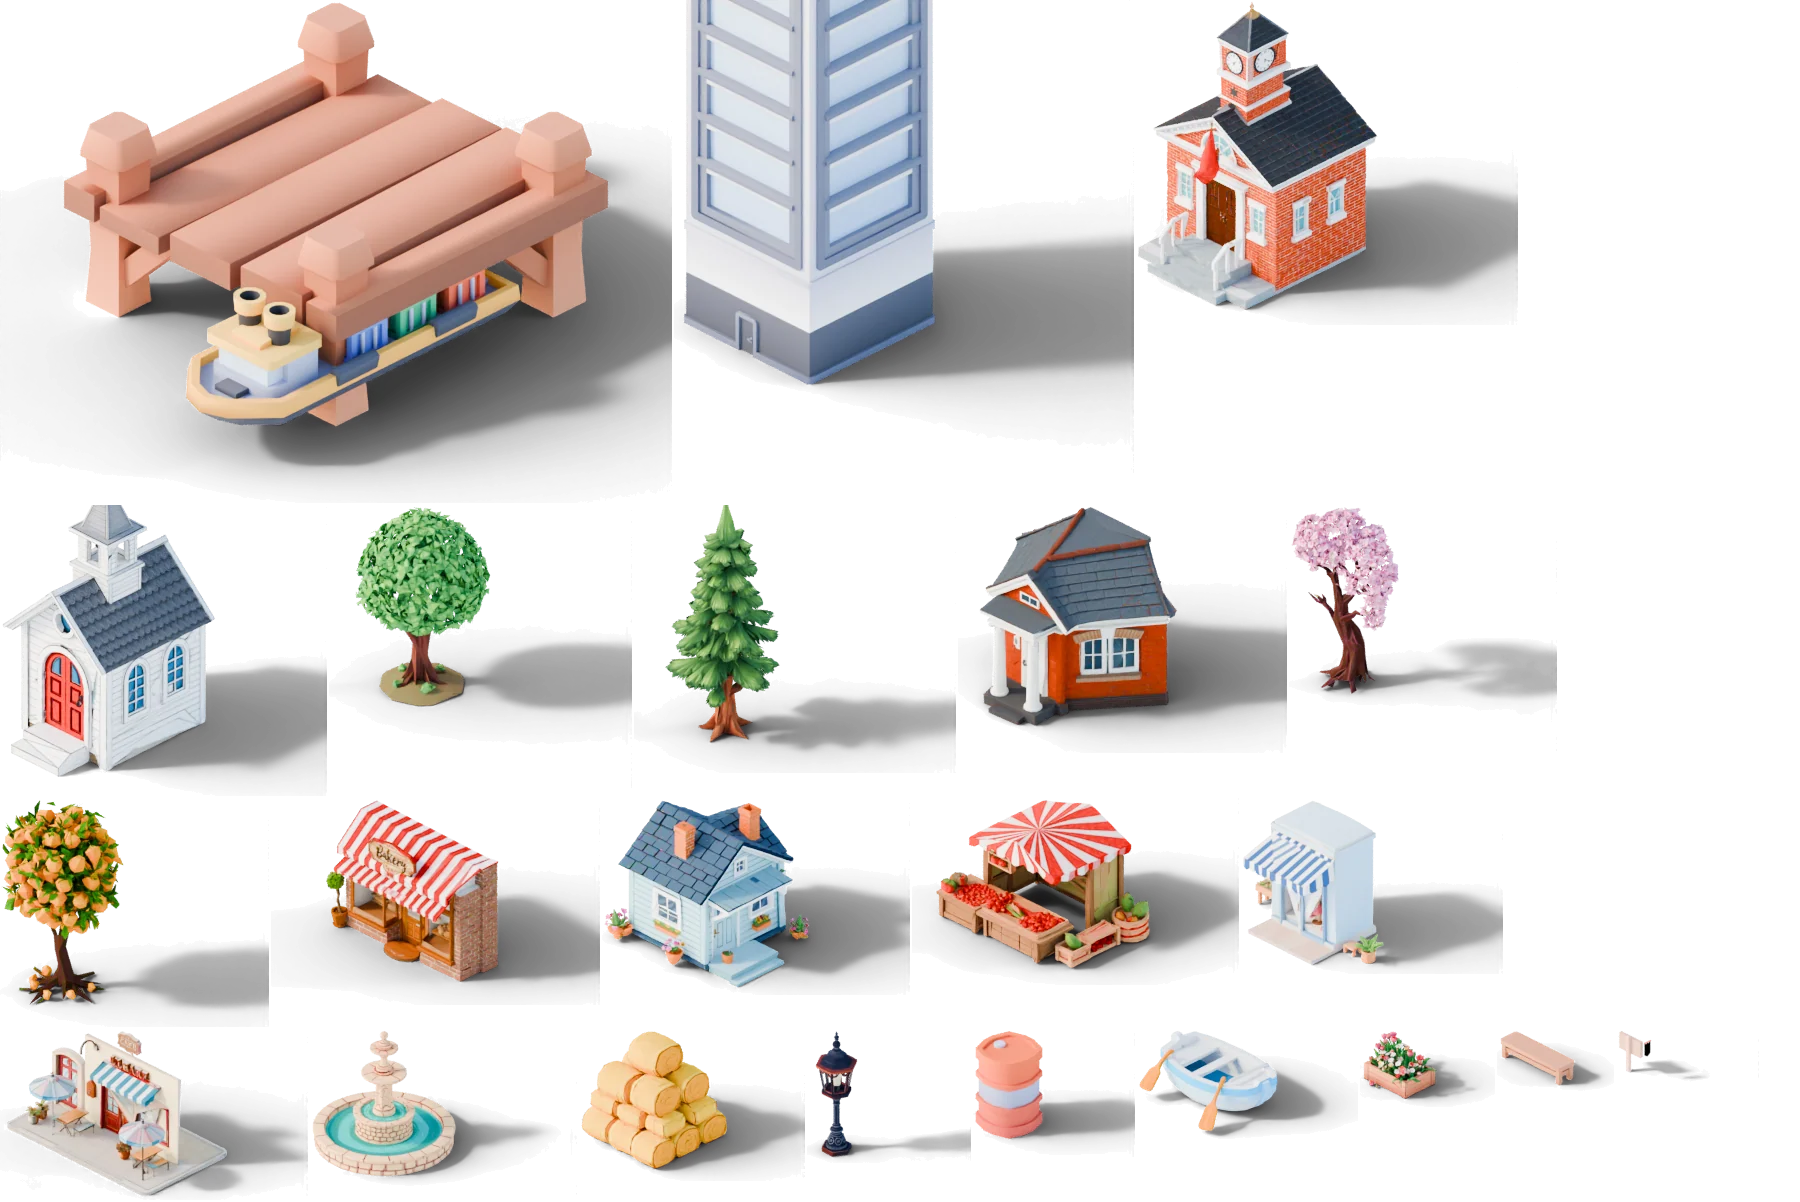
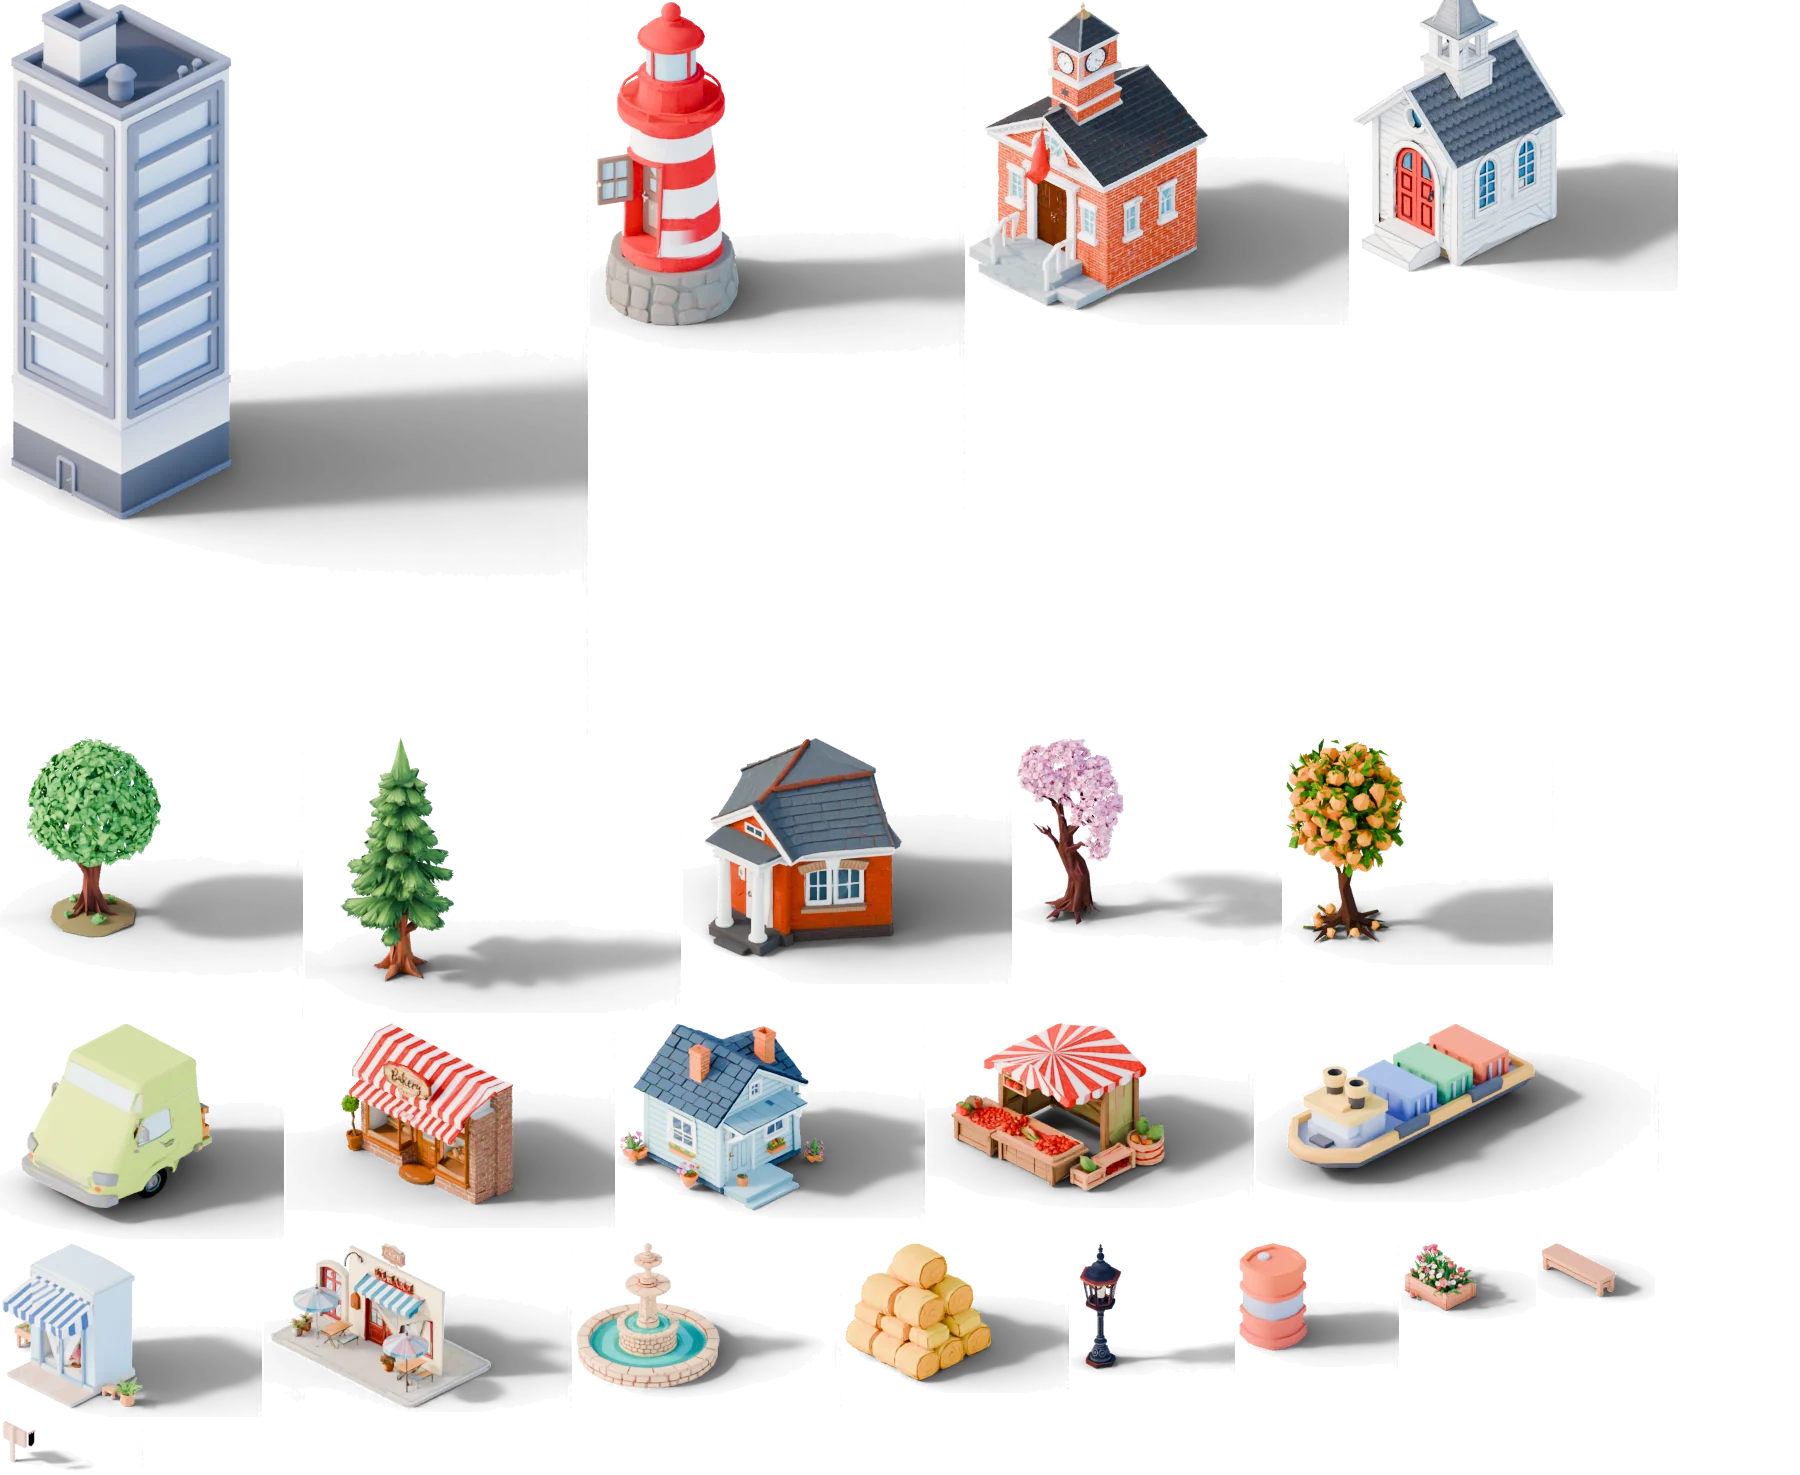
WIP checkpoint (agents still working)
Claude-Session: https://claude.ai/code/session_01MZqF5xsRjVMwhhvg4xQkiz

diff --git a/games/assets/idle/monsters.js b/games/assets/idle/monsters.js
@@ -1,1 +1,1 @@
-window.IK_ATLAS=window.IK_ATLAS||{};window.IK_ATLAS["monsters"]={"m_fly_dragon":[0,0,480,267,240.0,183.0],"m_big_mushroomking":[482,0,322,215,70.0,163.0],"m_blob_greenblob":[806,0,326,184,134.0,128.0],"m_blob_ninja":[1134,0,284,179,92.0,138.0],"m_blob_cactoro":[0,269,296,170,104.0,121.0],"m_blob_yeti":[298,269,291,166,99.0,117.0],"m_blob_dog":[591,269,273,165,81.0,115.0],"m_blob_greenspikyblob":[866,269,291,163,99.0,117.0],"m_blob_cat":[1159,269,269,161,77.0,114.0],"m_blob_pinkblob":[0,441,281,160,89.0,112.0],"m_blob_chicken":[283,441,240,152,48.0,117.0],"m_blob_alien":[525,441,281,151,89.0,112.0],"m_blob_mushnub":[808,441,248,148,56.0,110.0],"m_blob_wizard":[1058,441,292,146,100.0,102.0],"__size":[1600,603]};
+window.IK_ATLAS=window.IK_ATLAS||{};window.IK_ATLAS["monsters"]={"m_big_demon":[0,0,393,307,141.0,182.0],"m_fly_pigeon":[395,0,480,306,240.0,219.0],"m_fly_demon":[877,0,480,281,240.0,202.0],"m_big_ninja":[1359,0,361,279,109.0,185.0],"m_big_orc":[0,309,323,278,71.0,153.0],"m_big_orc_skull":[325,309,321,277,69.0,152.0],"m_big_cactoro":[648,309,341,273,89.0,174.0],"m_fly_dragon":[991,309,480,267,240.0,183.0],"m_big_frog":[0,589,344,265,92.0,166.0],"m_fly_goleling":[346,589,480,259,240.0,177.0],"m_big_monkroose":[828,589,323,254,71.0,155.0],"m_fly_squidle":[1153,589,394,252,154.0,174.0],"m_big_alien":[0,856,352,250,100.0,151.0],"m_fly_dragon_evolved":[354,856,363,226,123.0,162.0],"m_big_bluedemon":[719,856,358,223,106.0,166.0],"m_fly_armabee":[1079,856,369,222,129.0,157.0],"m_fly_ghost_skull":[0,1108,354,221,114.0,168.0],"m_big_mushroomking":[356,1108,322,215,70.0,163.0],"m_fly_ghost":[680,1108,345,214,105.0,165.0],"m_big_yeti":[1027,1108,318,212,66.0,160.0],"m_fly_alpaking":[1347,1108,333,209,93.0,147.0],"m_big_birb":[0,1331,323,208,71.0,172.0],"m_fly_hywirl":[325,1331,344,208,104.0,156.0],"m_fly_glub":[671,1331,358,201,118.0,145.0],"m_big_dino":[1031,1331,345,199,93.0,147.0],"m_blob_birb":[1378,1331,284,192,92.0,147.0],"m_big_fish":[0,1541,324,191,72.0,151.0],"m_fly_tribal":[326,1541,301,187,74.0,147.0],"m_big_tribal":[629,1541,325,184,73.0,149.0],"m_blob_greenblob":[956,1541,326,184,134.0,128.0],"m_blob_ninja":[1284,1541,284,179,92.0,138.0],"m_blob_cactoro":[0,1734,296,170,104.0,121.0],"m_blob_pigeon":[298,1734,278,169,86.0,121.0],"m_blob_yeti":[578,1734,291,166,99.0,117.0],"m_blob_dog":[871,1734,273,165,81.0,115.0],"m_blob_greenspikyblob":[1146,1734,291,163,99.0,117.0],"m_blob_cat":[1439,1734,269,161,77.0,114.0],"m_blob_pinkblob":[0,1906,281,160,89.0,112.0],"m_blob_fish":[283,1906,267,155,75.0,116.0],"m_blob_chicken":[552,1906,240,152,48.0,117.0],"m_blob_orc":[794,1906,273,152,81.0,113.0],"m_blob_alien":[1069,1906,281,151,89.0,112.0],"m_blob_mushnub":[1352,1906,248,148,56.0,110.0],"m_blob_wizard":[0,2068,292,146,100.0,102.0],"__size":[1800,2216]};

diff --git a/games/idle-empire.html b/games/idle-empire.html
@@ -33,7 +33,7 @@ var G = [
   { name: 'Library', cost: 2e7, inc: 7800, spr: 'study_hall', desc: 'Every book pays a fee.', verb: 'Build', lvl: 6 },
   { name: 'Town Hall', cost: 3.3e8, inc: 44000, spr: 'clocktower', desc: 'Taxes, ribbons, clocks.', verb: 'Build', lvl: 8 },
   { name: 'Skyscraper', cost: 5.1e9, inc: 260000, spr: 'skyscraper', desc: 'Offices above the clouds.', verb: 'Build', lvl: 10 },
-  { name: 'Grand Harbour', cost: 7.5e10, inc: 1.6e6, spr: 'harbour', desc: 'Ships from every sea.', verb: 'Build', lvl: 12 }
+  { name: 'Grand Harbour', cost: 7.5e10, inc: 1.6e6, spr: 'lighthouse', desc: 'Ships from every sea.', verb: 'Build', lvl: 12 }
 ];
 G.forEach(function (g) { g.ico = function (px) { return A.icon(g.spr, px, 6); }; });
 var LOT = [{ i: 3, j: 2 }, { i: 3, j: 1 }, { i: 2, j: 2 }, { i: 2, j: 1 }, { i: 1, j: 2 }, { i: 2, j: 0 }, { i: 0, j: 2 }, { i: 1, j: 0 }, { i: 0, j: 1 }, { i: 0, j: 0 }];   // where each tier stands
@@ -153,6 +153,7 @@ function makeScene(E) {
           var k2 = 1;
           if (bd && bd.t < 0.6) { var u = bd.t / 0.6; k2 = u < 0.6 ? 0.5 + 0.7 * (u / 0.6) : 1.2 - 0.2 * ((u - 0.6) / 0.4); bd.t += dt; }
           else if (bd && bd.b > 0) { k2 = 1 + 0.06 * Math.sin(bd.b * 18) * (bd.b / 0.25); bd.b -= dt; }
+          if (tier === 9) A.draw(cx, 'ship', p3.x - 46 * sc, p3.y - 26 * sc + Math.sin(t * 1.6) * 2, ss * 0.9);
           cx.save(); cx.translate(p3.x, p3.y); cx.scale(k2, Math.max(0.9, Math.min(1.05, 2 - k2))); A.draw(cx, g.spr, 0, 0, ss); cx.restore();
           iso.chip(cx, '×' + owned, p3.x, p3.y + 15 * sc, false);
           if (owned >= 25) { var st2 = owned >= 100 ? 3 : owned >= 50 ? 2 : 1, star = '★★★'.slice(0, st2); cx.font = '800 13px "DM Sans", sans-serif'; cx.textAlign = 'center'; cx.strokeStyle = 'rgba(40,20,0,.8)'; cx.lineWidth = 3; cx.strokeText(star, p3.x, p3.y + 31 * sc); cx.fillStyle = '#ffd45a'; cx.fillText(star, p3.x, p3.y + 31 * sc); }
@@ -162,7 +163,7 @@ function makeScene(E) {
           if (nextUp) {
             cx.strokeStyle = 'rgba(255,224,130,' + (0.6 + 0.3 * Math.sin(t * 4)) + ')'; cx.lineWidth = 2.5; cx.setLineDash([7, 5]); iso.diamond(cx, p3.x, p3.y, 0.9); cx.stroke(); cx.setLineDash([]);
             iso.chip(cx, S.coins >= E.cost(tier, 1) ? 'BUILD!' : 'NEXT', p3.x, p3.y - 6 * sc + Math.sin(t * 4) * 2, S.coins >= E.cost(tier, 1));
-          } else if (tier > hi + 1 || !E.unlocked(tier)) { cx.fillStyle = 'rgba(255,255,255,.6)'; cx.font = '800 14px "DM Sans", sans-serif'; cx.textAlign = 'center'; cx.fillText(E.unlocked(tier) ? '?' : 'Lv ' + g.lvl, p3.x, p3.y + 4); }
+          }
         }
       } else if (it.kind === 'critter') {
         var c = critter; A.draw(cx, 'truck', c.x, c.y, ss * 1.05);

diff --git a/games/assets/idle/harvest.js b/games/assets/idle/harvest.js
@@ -1,1 +1,1 @@
-window.IK_ATLAS=window.IK_ATLAS||{};window.IK_ATLAS["harvest"]={"farm_windmill":[0,0,368,324,99.0,268.0],"tree":[370,0,303,283,93.0,181.0],"pine":[675,0,376,277,99.0,235.0],"barn":[1053,0,347,276,120.0,195.0],"treepink":[0,326,268,248,58.0,173.0],"truck":[270,326,284,218,116.0,157.0],"home":[556,326,326,196,99.0,131.0],"silos":[884,326,325,177,73.0,131.0],"hay_bales":[1211,326,226,152,75.0,106.0],"wheat_3":[0,576,255,136,104.0,83.0],"wheat_2":[257,576,255,134,104.0,80.0],"strawberry_3":[514,576,260,132,109.0,78.0],"tractor":[776,576,246,132,95.0,89.0],"strawberry_2":[1024,576,255,129,104.0,76.0],"crate":[1281,576,162,128,36.0,93.0],"strawberry_1":[0,714,225,117,104.0,64.0],"wheat_1":[227,714,224,114,104.0,60.0],"plot_empty":[453,714,224,113,104.0,60.0],"cow":[679,714,149,76,31.5,58.5],"sheep":[830,714,149,76,31.5,49.5],"chicken":[981,714,84,55,15.0,45.0],"__size":[1600,833]};
+window.IK_ATLAS=window.IK_ATLAS||{};window.IK_ATLAS["harvest"]={"farm_windmill":[0,0,368,324,99.0,268.0],"tree":[370,0,303,283,93.0,181.0],"pine":[675,0,376,277,99.0,235.0],"barn":[1053,0,347,276,120.0,195.0],"treepink":[0,326,268,248,58.0,173.0],"truck":[270,326,284,218,116.0,157.0],"melon_3":[556,326,255,206,104.0,151.0],"carrot_2":[813,326,255,205,104.0,151.0],"carrot_3":[1070,326,255,205,104.0,151.0],"melon_2":[1327,326,255,205,104.0,151.0],"pumpkin_2":[0,576,255,205,104.0,151.0],"corn_1":[257,576,255,204,104.0,151.0],"corn_2":[514,576,255,204,104.0,151.0],"corn_3":[771,576,255,204,104.0,151.0],"pumpkin_3":[1028,576,255,204,104.0,151.0],"home":[0,783,326,196,99.0,131.0],"carrot_1":[328,783,255,186,104.0,132.0],"melon_1":[585,783,255,186,104.0,132.0],"pumpkin_1":[842,783,255,186,104.0,132.0],"sunflower_3":[1099,783,255,185,104.0,130.0],"silos":[0,981,325,177,73.0,131.0],"hay_bales":[327,981,226,152,75.0,106.0],"wheat_3":[555,981,255,136,104.0,83.0],"wheat_2":[812,981,255,134,104.0,80.0],"strawberry_3":[1069,981,260,132,109.0,78.0],"tractor":[1331,981,246,132,95.0,89.0],"strawberry_2":[0,1160,255,129,104.0,76.0],"sunflower_2":[257,1160,255,129,104.0,76.0],"crate":[514,1160,162,128,36.0,93.0],"strawberry_1":[678,1160,225,117,104.0,64.0],"sunflower_1":[905,1160,225,117,104.0,64.0],"wheat_1":[1132,1160,224,114,104.0,60.0],"plot_empty":[1358,1160,224,113,104.0,60.0],"cow":[0,1291,149,76,31.5,58.5],"sheep":[151,1291,149,76,31.5,49.5],"chicken":[302,1291,84,55,15.0,45.0],"__size":[1600,1369]};

diff --git a/games/assets/idle/empire.js b/games/assets/idle/empire.js
@@ -1,1 +1,1 @@
-window.IK_ATLAS=window.IK_ATLAS||{};window.IK_ATLAS["empire"]={"harbour":[0,0,672,503,336.0,301.0],"skyscraper":[674,0,460,474,141.0,319.0],"clocktower":[1136,0,382,325,113.0,254.0],"chapel":[0,505,327,291,100.0,227.0],"tree":[329,505,303,283,93.0,181.0],"pine":[634,505,322,268,95.0,227.0],"study_hall":[958,505,329,248,102.0,182.0],"treepink":[1289,505,268,248,58.0,173.0],"orange_tree":[0,798,269,229,59.0,191.0],"bakery":[271,798,329,207,136.0,148.0],"cottage":[602,798,308,197,115.0,140.0],"market":[912,798,327,187,134.0,128.0],"boutique":[1241,798,262,176,69.0,137.0],"cafe":[0,1029,308,171,115.0,113.0],"fountain":[310,1029,267,167,74.0,112.0],"hay_bales":[579,1029,226,152,75.0,106.0],"lantern":[807,1029,164,134,29.5,120.5],"crate":[973,1029,162,128,36.0,93.0],"rowboat":[1137,1029,221,111,73.0,71.0],"flower_box":[1360,1029,135,78,41.5,52.5],"bench":[1497,1029,117,62,40.5,38.5],"mailbox":[1616,1029,143,54,17.0,44.0],"__size":[1800,1202]};
+window.IK_ATLAS=window.IK_ATLAS||{};window.IK_ATLAS["empire"]={"skyscraper":[0,0,588,734,126.0,462.0],"lighthouse":[590,0,375,510,81.0,293.0],"clocktower":[967,0,382,325,113.0,254.0],"chapel":[1351,0,327,291,100.0,227.0],"tree":[0,736,303,283,93.0,181.0],"pine":[305,736,376,277,99.0,235.0],"study_hall":[683,736,329,248,102.0,182.0],"treepink":[1014,736,268,248,58.0,173.0],"orange_tree":[1284,736,269,229,59.0,191.0],"truck":[0,1021,284,218,116.0,157.0],"bakery":[286,1021,329,207,136.0,148.0],"cottage":[617,1021,308,197,115.0,140.0],"market":[927,1021,327,187,134.0,128.0],"ship":[1256,1021,403,181,142.5,109.5],"boutique":[0,1241,262,176,69.0,137.0],"cafe":[264,1241,308,171,115.0,113.0],"fountain":[574,1241,267,167,74.0,112.0],"hay_bales":[843,1241,226,152,75.0,106.0],"lantern":[1071,1241,164,134,29.5,120.5],"crate":[1237,1241,162,128,36.0,93.0],"flower_box":[1401,1241,135,78,41.5,52.5],"bench":[1538,1241,117,62,40.5,38.5],"mailbox":[0,1419,143,54,17.0,44.0],"__size":[1800,1475]};

diff --git a/games/assets/idle/farm.js b/games/assets/idle/farm.js
@@ -1,1 +1,1 @@
-window.IK_ATLAS=window.IK_ATLAS||{};window.IK_ATLAS["farm"]={"farm_windmill":[0,0,368,324,99.0,268.0],"tree":[370,0,303,283,93.0,181.0],"barn":[675,0,347,276,120.0,195.0],"pine":[1024,0,322,268,95.0,227.0],"treepink":[0,326,268,248,58.0,173.0],"pet_park":[270,326,276,247,83.0,192.0],"orange_tree":[548,326,269,229,59.0,191.0],"greenhouse":[819,326,307,221,114.0,157.0],"crop_sunflower":[1128,326,295,201,102.0,144.0],"home":[0,576,326,196,99.0,131.0],"silos":[328,576,325,177,73.0,131.0],"hay_bales":[655,576,226,152,75.0,106.0],"tractor":[883,576,246,132,95.0,89.0],"crop_wheat":[1131,576,247,130,107.0,84.0],"crate":[1380,576,162,128,36.0,93.0],"crop_strawberry":[0,774,264,121,104.0,71.0],"flower_box":[266,774,135,78,41.5,52.5],"cow":[403,774,149,76,31.5,58.5],"sheep":[554,774,149,76,31.5,49.5],"chicken":[705,774,84,55,15.0,45.0],"mailbox":[791,774,143,54,17.0,44.0],"__size":[1600,897]};
+window.IK_ATLAS=window.IK_ATLAS||{};window.IK_ATLAS["farm"]={"farm_windmill":[0,0,368,324,99.0,268.0],"tree":[370,0,303,283,93.0,181.0],"pine":[675,0,376,277,99.0,235.0],"barn":[1053,0,347,276,120.0,195.0],"treepink":[0,326,268,248,58.0,173.0],"pet_park":[270,326,276,247,83.0,192.0],"orange_tree":[548,326,269,229,59.0,191.0],"greenhouse":[819,326,307,221,114.0,157.0],"crop_sunflower":[1128,326,295,201,102.0,144.0],"home":[0,576,326,196,99.0,131.0],"silos":[328,576,325,177,73.0,131.0],"hay_bales":[655,576,226,152,75.0,106.0],"tractor":[883,576,246,132,95.0,89.0],"crop_wheat":[1131,576,247,130,107.0,84.0],"crate":[1380,576,162,128,36.0,93.0],"crop_strawberry":[0,774,264,121,104.0,71.0],"flower_box":[266,774,135,78,41.5,52.5],"cow":[403,774,149,76,31.5,58.5],"sheep":[554,774,149,76,31.5,49.5],"chicken":[705,774,84,55,15.0,45.0],"mailbox":[791,774,143,54,17.0,44.0],"__size":[1600,897]};

diff --git a/games/kit/ik.css b/games/kit/ik.css
@@ -161,7 +161,7 @@ svg.ic{display:block;flex:none}
 .ik-kv b{color:var(--ik-gold1);font-weight:800;text-align:right}
 
 /* ---------- title: the live world with a wooden plaque ---------- */
-.ik-title{position:fixed;inset:0;z-index:40;display:flex;flex-direction:column;align-items:center;justify-content:flex-end;padding:calc(var(--ik-sat) + 12px) 16px calc(var(--ik-sab) + 20px);text-align:center;background:linear-gradient(rgba(6,14,30,.05) 20%,rgba(6,14,30,.62) 62%,rgba(6,14,30,.94))}
+.ik-title{position:fixed;inset:0;z-index:40;display:flex;flex-direction:column;align-items:center;justify-content:flex-end;padding:calc(var(--ik-sat) + 12px) 16px calc(var(--ik-sab) + 20px);text-align:center;background:linear-gradient(rgba(6,14,30,0) 0,rgba(6,14,30,0) 24%,rgba(7,15,32,.97) 46%)}
 .ik-title[hidden]{display:none}
 .ik-plaque{position:relative;padding:14px 26px 12px;border-radius:16px;border:2px solid #2a1607;margin-bottom:10px;background:linear-gradient(rgba(255,210,140,.16),rgba(0,0,0,.28)),url(../assets/idle/tex/planks_warm.jpg);background-size:auto,190px;box-shadow:0 6px 0 #1a0d04,0 12px 28px rgba(0,0,0,.55),inset 0 2px 0 rgba(255,220,170,.35),inset 0 -3px 6px rgba(0,0,0,.45)}
 .ik-plaque:before,.ik-plaque:after{content:'';position:absolute;top:50%;width:9px;height:9px;margin-top:-4px;border-radius:50%;background:radial-gradient(circle at 35% 30%,#e8d29a,#6b5320);box-shadow:0 1px 0 rgba(0,0,0,.6)}

diff --git a/games/farm-idle.html b/games/farm-idle.html
@@ -195,7 +195,7 @@ function makeScene(E) {
           if (nextUp) {
             cx.strokeStyle = 'rgba(255,224,130,' + (0.6 + 0.3 * Math.sin(t * 4)) + ')'; cx.lineWidth = 2.5; cx.setLineDash([7, 5]); iso.diamond(cx, p3.x, p3.y, 0.9); cx.stroke(); cx.setLineDash([]);
             iso.chip(cx, S.coins >= E.cost(tier, 1) ? g.verb.toUpperCase() + '!' : 'NEXT', p3.x, p3.y - 6 * sc + Math.sin(t * 4) * 2, S.coins >= E.cost(tier, 1));
-          } else if (tier > hi + 1 || !E.unlocked(tier)) { cx.fillStyle = 'rgba(255,255,255,.6)'; cx.font = '800 14px "DM Sans", sans-serif'; cx.textAlign = 'center'; cx.fillText(E.unlocked(tier) ? '?' : 'Lv ' + g.lvl, p3.x, p3.y + 4); }
+          }
         }
       }
     });
